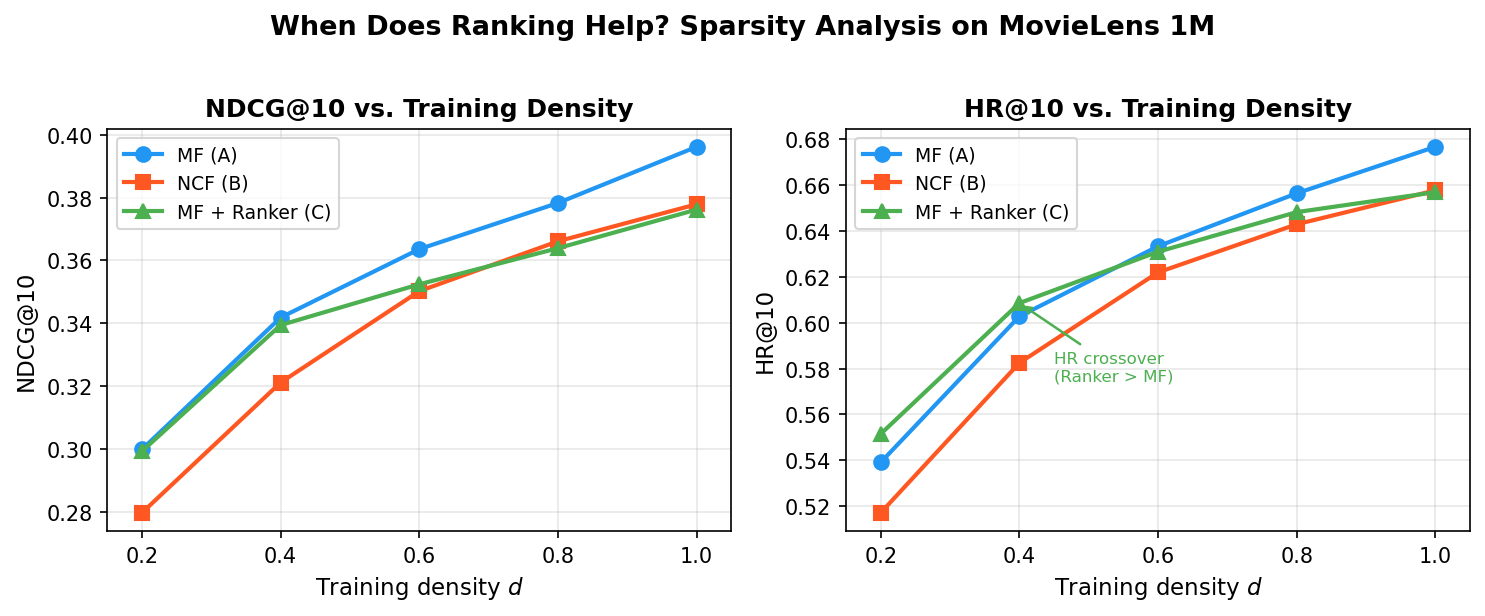
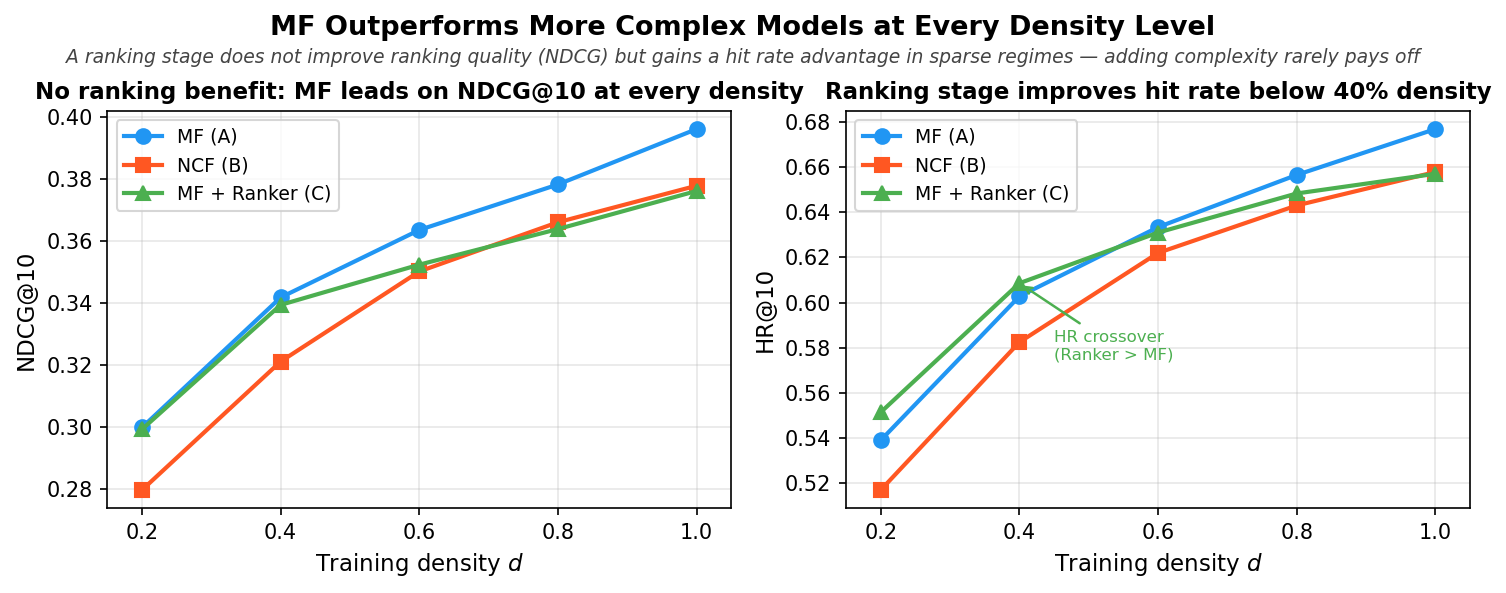
Update figure with McKinsey-style insight titles

Changed region(s): [[0.0, 0.0, 0.9912, 0.9106], [0.7125, 0.941, 0.8673, 0.9713], [0.2168, 0.941, 0.3717, 0.9713]]

diff --git a/notebooks/plot_results.py b/notebooks/plot_results.py
@@ -53,24 +53,31 @@ ax2.annotate(
 )
 
 for ax, ylabel, title in [
-    (ax1, "NDCG@10", "NDCG@10 vs. Training Density"),
-    (ax2, "HR@10",   "HR@10 vs. Training Density"),
+    (ax1, "NDCG@10", "No ranking benefit: MF leads on NDCG@10 at every density"),
+    (ax2, "HR@10",   "Ranking stage improves hit rate below 40% density"),
 ]:
     ax.set_xlabel("Training density $d$", fontsize=11)
     ax.set_ylabel(ylabel, fontsize=11)
-    ax.set_title(title, fontsize=12, fontweight="bold")
+    ax.set_title(title, fontsize=11, fontweight="bold")
     ax.set_xticks(densities)
     ax.set_xticklabels([str(d) for d in densities])
     ax.legend(fontsize=9)
     ax.grid(True, alpha=0.3)
     ax.set_xlim(0.15, 1.05)
 
+plt.tight_layout()
+plt.subplots_adjust(top=0.82)
+
 fig.suptitle(
-    "When Does Ranking Help? Sparsity Analysis on MovieLens 1M",
-    fontsize=13, fontweight="bold", y=1.02
+    "MF Outperforms More Complex Models at Every Density Level",
+    fontsize=13, fontweight="bold", y=0.98,
+)
+fig.text(
+    0.5, 0.90,
+    "A ranking stage does not improve ranking quality (NDCG) but gains a hit rate advantage in sparse regimes — adding complexity rarely pays off",
+    ha="center", fontsize=9, style="italic", color="#444444",
 )
 
-plt.tight_layout()
 plt.savefig("figures/sparsity_results.pdf", bbox_inches="tight", dpi=150)
 plt.savefig("figures/sparsity_results.png", bbox_inches="tight", dpi=150)
 print("Saved figures/sparsity_results.pdf and .png")